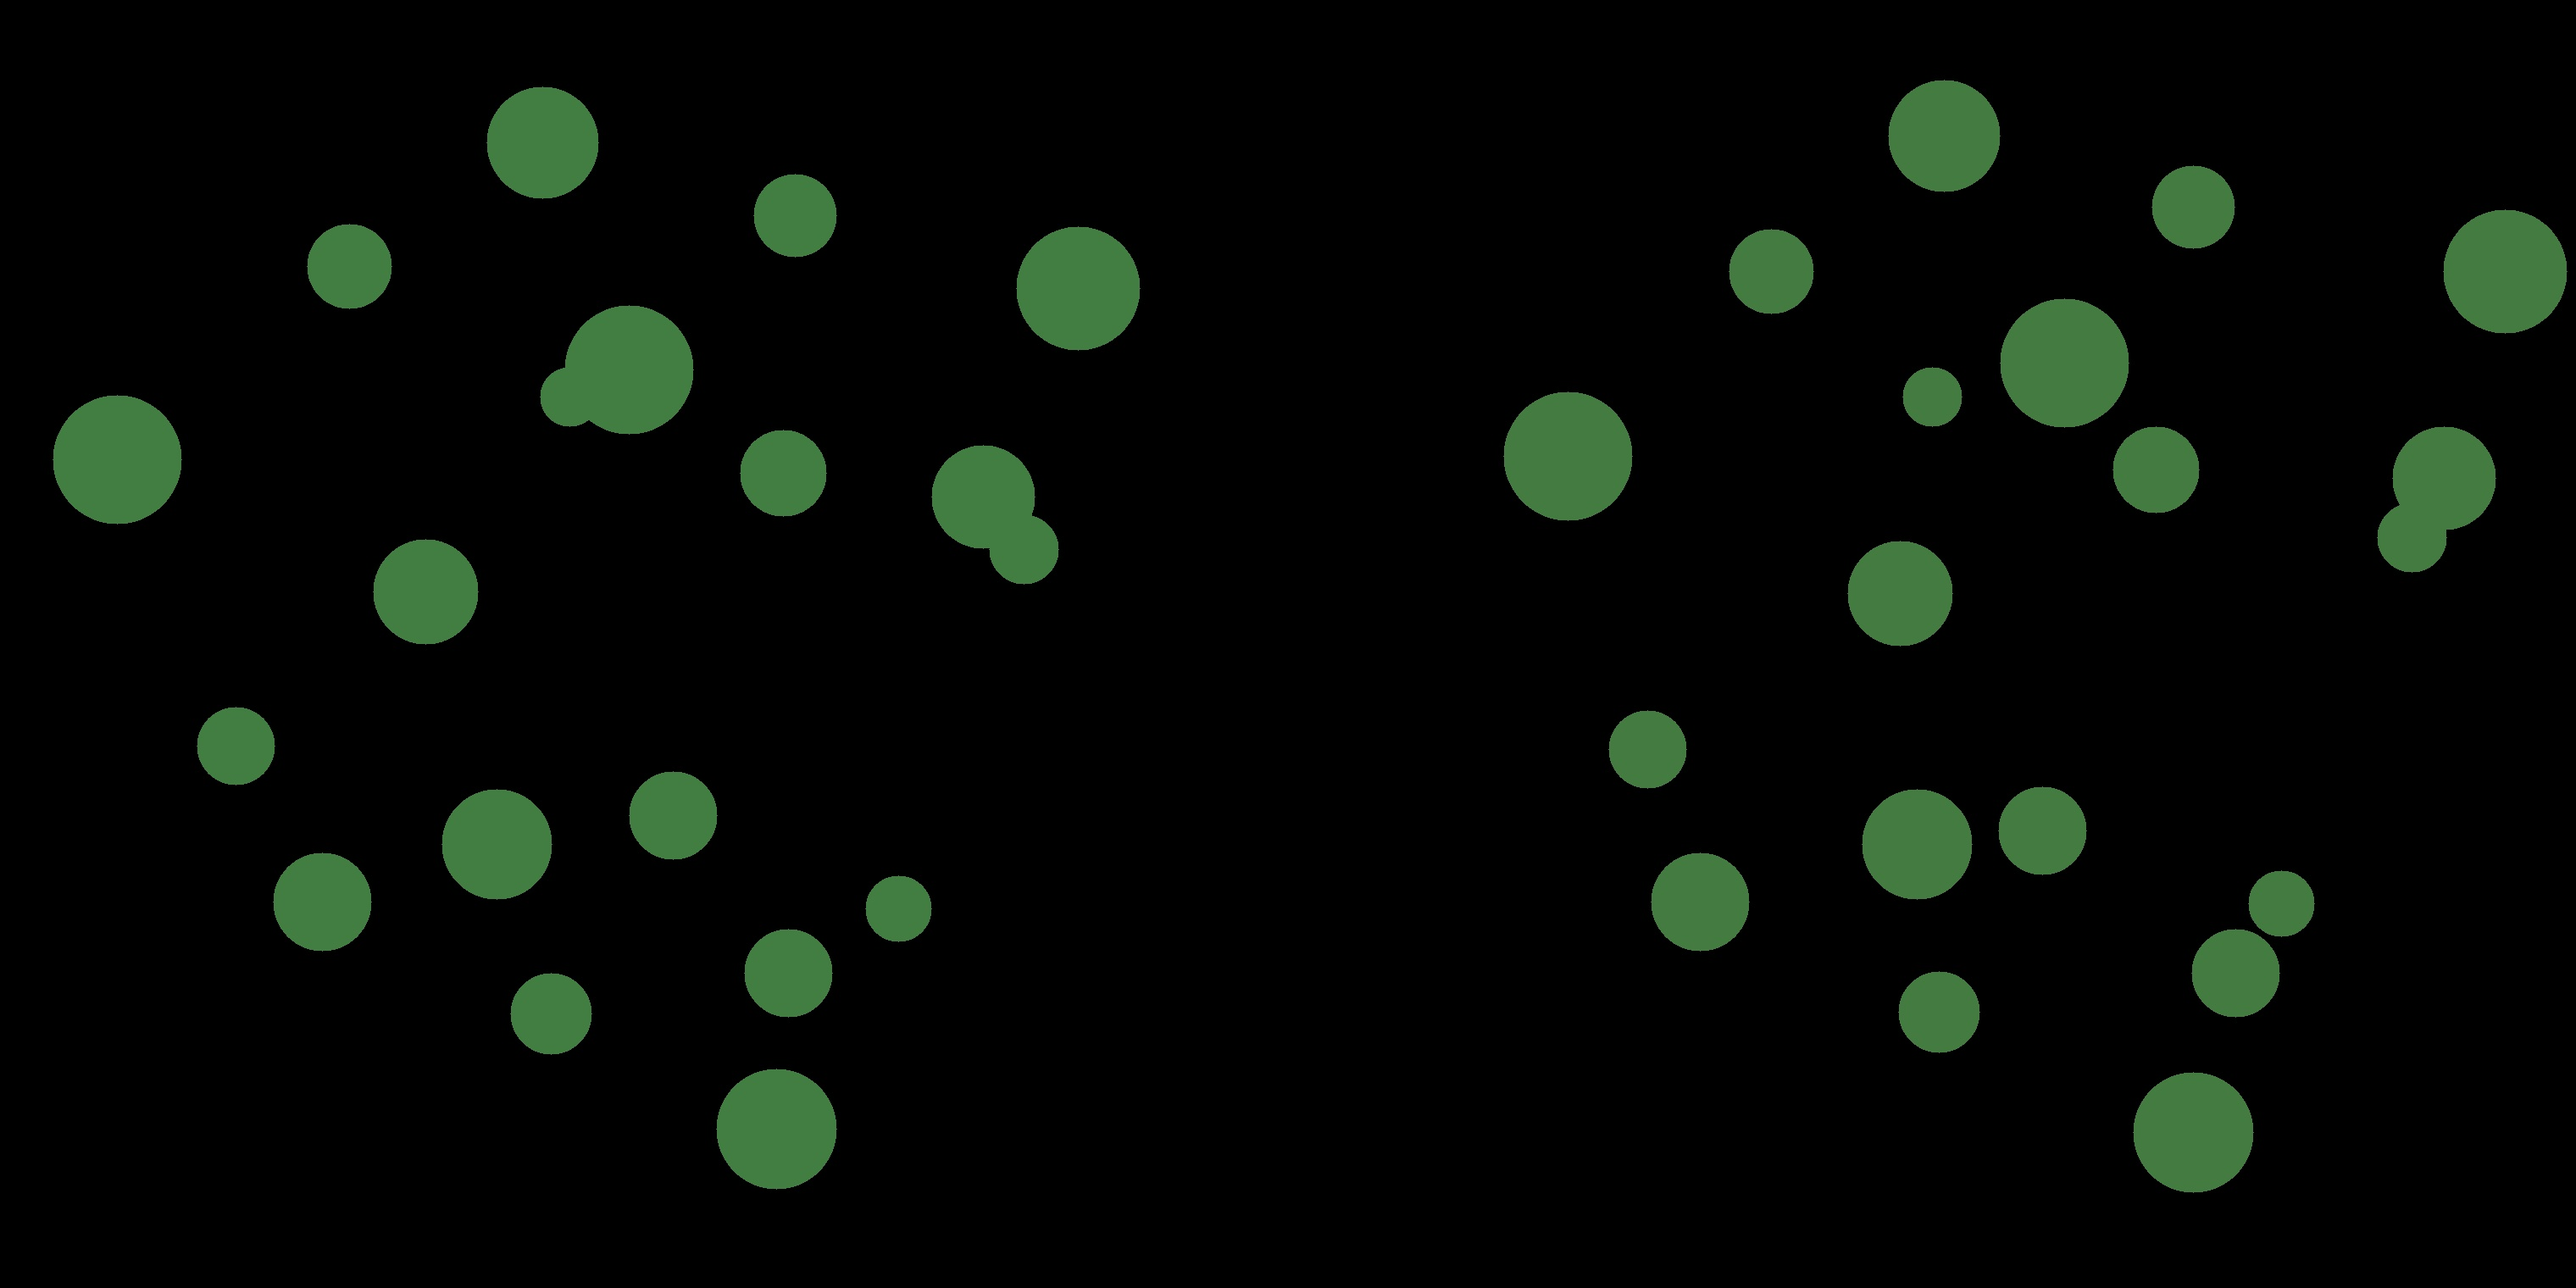
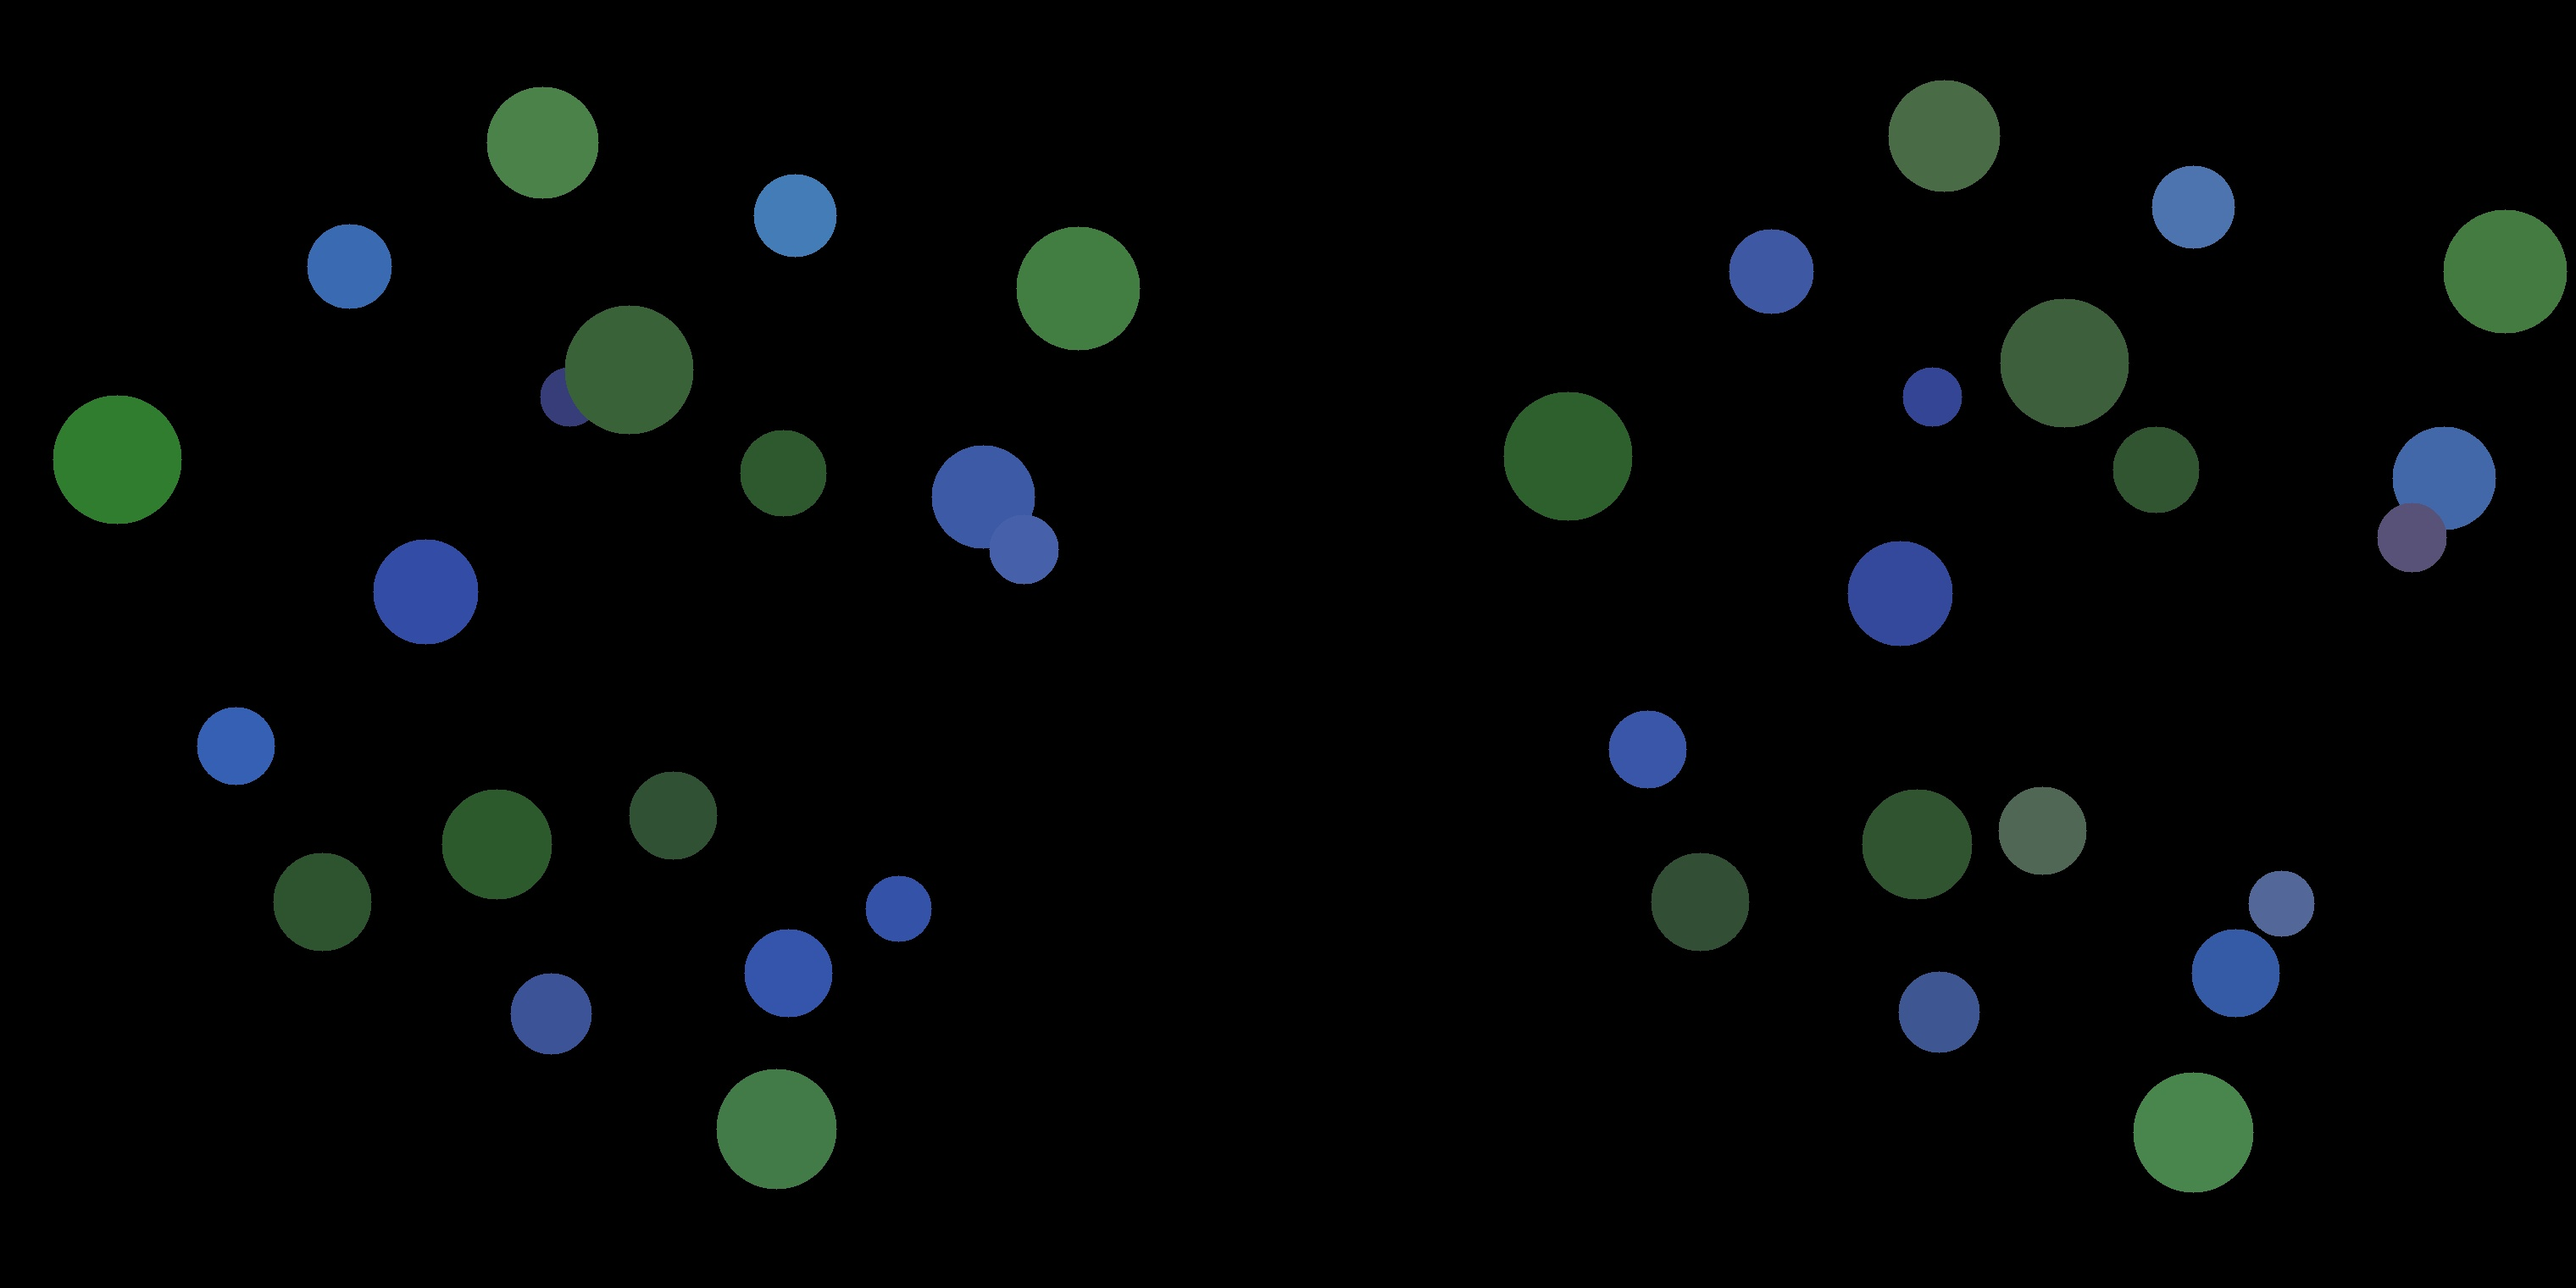
update_10_6

diff --git a/Hamster/Week 17/draw_result_color.py b/Hamster/Week 17/draw_result_color.py
@@ -40,14 +40,17 @@ m_color=open("m_color.txt",'w')
 m_color.write("Left Mean color    Right Mean color    Position\n")
 
 draw_cirlces = np.zeros((1520, 3040, 3), np.uint8)
+count_i=0
 for i in draw_pt:
     cv2.line(final_matrix,(i[0],i[1]),(i[2],i[3]),(0,0,255),2)
     f_circle.write(str(i[0])+"  "+str(i[1])+"       "+str(i[2])+"  "+str(i[3])+"      "+str(i[4])+"      "+str(m_color_1)+"      "+str(m_color_2)+"\n")
-    m_color.write(str(m_color_1)+"  "+str(m_color_2)+"  "+str(i)+"\n")
-    cv2.circle(draw_cirlces,(i[0],i[1]),i[4],tuple(color_pt[0]),-1,8)
-    cv2.circle(draw_cirlces,(i[2],i[3]),i[4],tuple(color_pt[1]),-1,8)
-
+    m_color.write(str(color_pt[count_i][0])+"        "+str(color_pt[count_i][1])+"         "+str(i)+"\n")
+    cv2.circle(draw_cirlces,(i[0],i[1]),i[4],color_pt[count_i][0],-1,8)
+    cv2.circle(draw_cirlces,(i[2],i[3]),i[4],color_pt[count_i][1],-1,8)
+    count_i=count_i+1
 f_circle.close()
-m_color.close()
+
 cv2.imwrite("Draw_Circles.jpg",draw_cirlces)
 cv2.imwrite("FinalCircle_Match.jpg",final_matrix)
+
+m_color.close()

diff --git a/Hamster/Week 17/houghcircle_test_only.py b/Hamster/Week 17/houghcircle_test_only.py
@@ -1,0 +1,23 @@
+import cv2
+#import math
+import numpy as np
+#pi=3.1415926
+import matplotlib.pyplot as plt
+ 
+img = cv2.imread('Left3.jpg')
+#img = cv2.resize(img,dsize=(1000,500))
+img = cv2.medianBlur(img, 5)
+gray = cv2.cvtColor(img, cv2.COLOR_BGR2GRAY)
+edges = cv2.Canny(gray, 100, 200, apertureSize=3)
+ 
+cimg = cv2.cvtColor(img, cv2.COLOR_BGR2GRAY)
+ 
+circles = cv2.HoughCircles(gray, cv2.HOUGH_GRADIENT, 1, 50,
+                           param1=40, param2=20, minRadius=19,maxRadius=77)
+circles = np.uint16(np.around(circles))
+for i in circles[0, :]:
+    cv2.circle(img, (i[0], i[1]), i[2], (0, 255, 0), 2)
+    cv2.circle(img, (i[0], i[1]), 2, (0, 255, 0), 3)
+    print(i[0],i[1])
+ 
+plt.imshow(img),plt.show()

diff --git a/Hamster/Week 17/calc_median_color.py b/Hamster/Week 17/calc_median_color.py
@@ -5,6 +5,7 @@ def calc_median_color(img,x_0,y_0,r):
     count=0;color=np.zeros((3,),dtype=int)
     for i_ in range(x_0-r,x_0+r):
         for j_ in range(y_0-r,y_0+r):
+            if (i_>=1520)|(j_>=1520): continue
             dis=math.sqrt(float((i_-x_0)**2+(j_-y_0)**2))
             if dis<=r:
                 count=count+1

diff --git a/Hamster/Week 17/find_houghcircle.py b/Hamster/Week 17/find_houghcircle.py
@@ -26,3 +26,8 @@ def Hough(str1):
 
 circles1, count1= Hough('Left3.jpg') 
 circles2, count2= Hough('Right3.jpg')
+
+
+#origin parameters
+#circles = cv2.HoughCircles(gray, cv2.HOUGH_GRADIENT, 1, 50,
+ #                          param1=40, param2=20, minRadius=19,maxRadius=77)

diff --git a/Hamster/Week 17/main.py b/Hamster/Week 17/main.py
@@ -3,10 +3,8 @@ import find_houghcircle
 import pick_surf_circle
 import surf_match
 import draw_result_color
-
+import matplotlib.pyplot as plt
 def main():
-    
+    plt.imshow(draw_result_color.final_matrix),plt.show()
     return 0
-
-
 main()

diff --git a/Hamster/Week 17/tempCodeRunnerFile.py b/Hamster/Week 17/tempCodeRunnerFile.py
@@ -1,0 +1,1 @@
+pyplot
